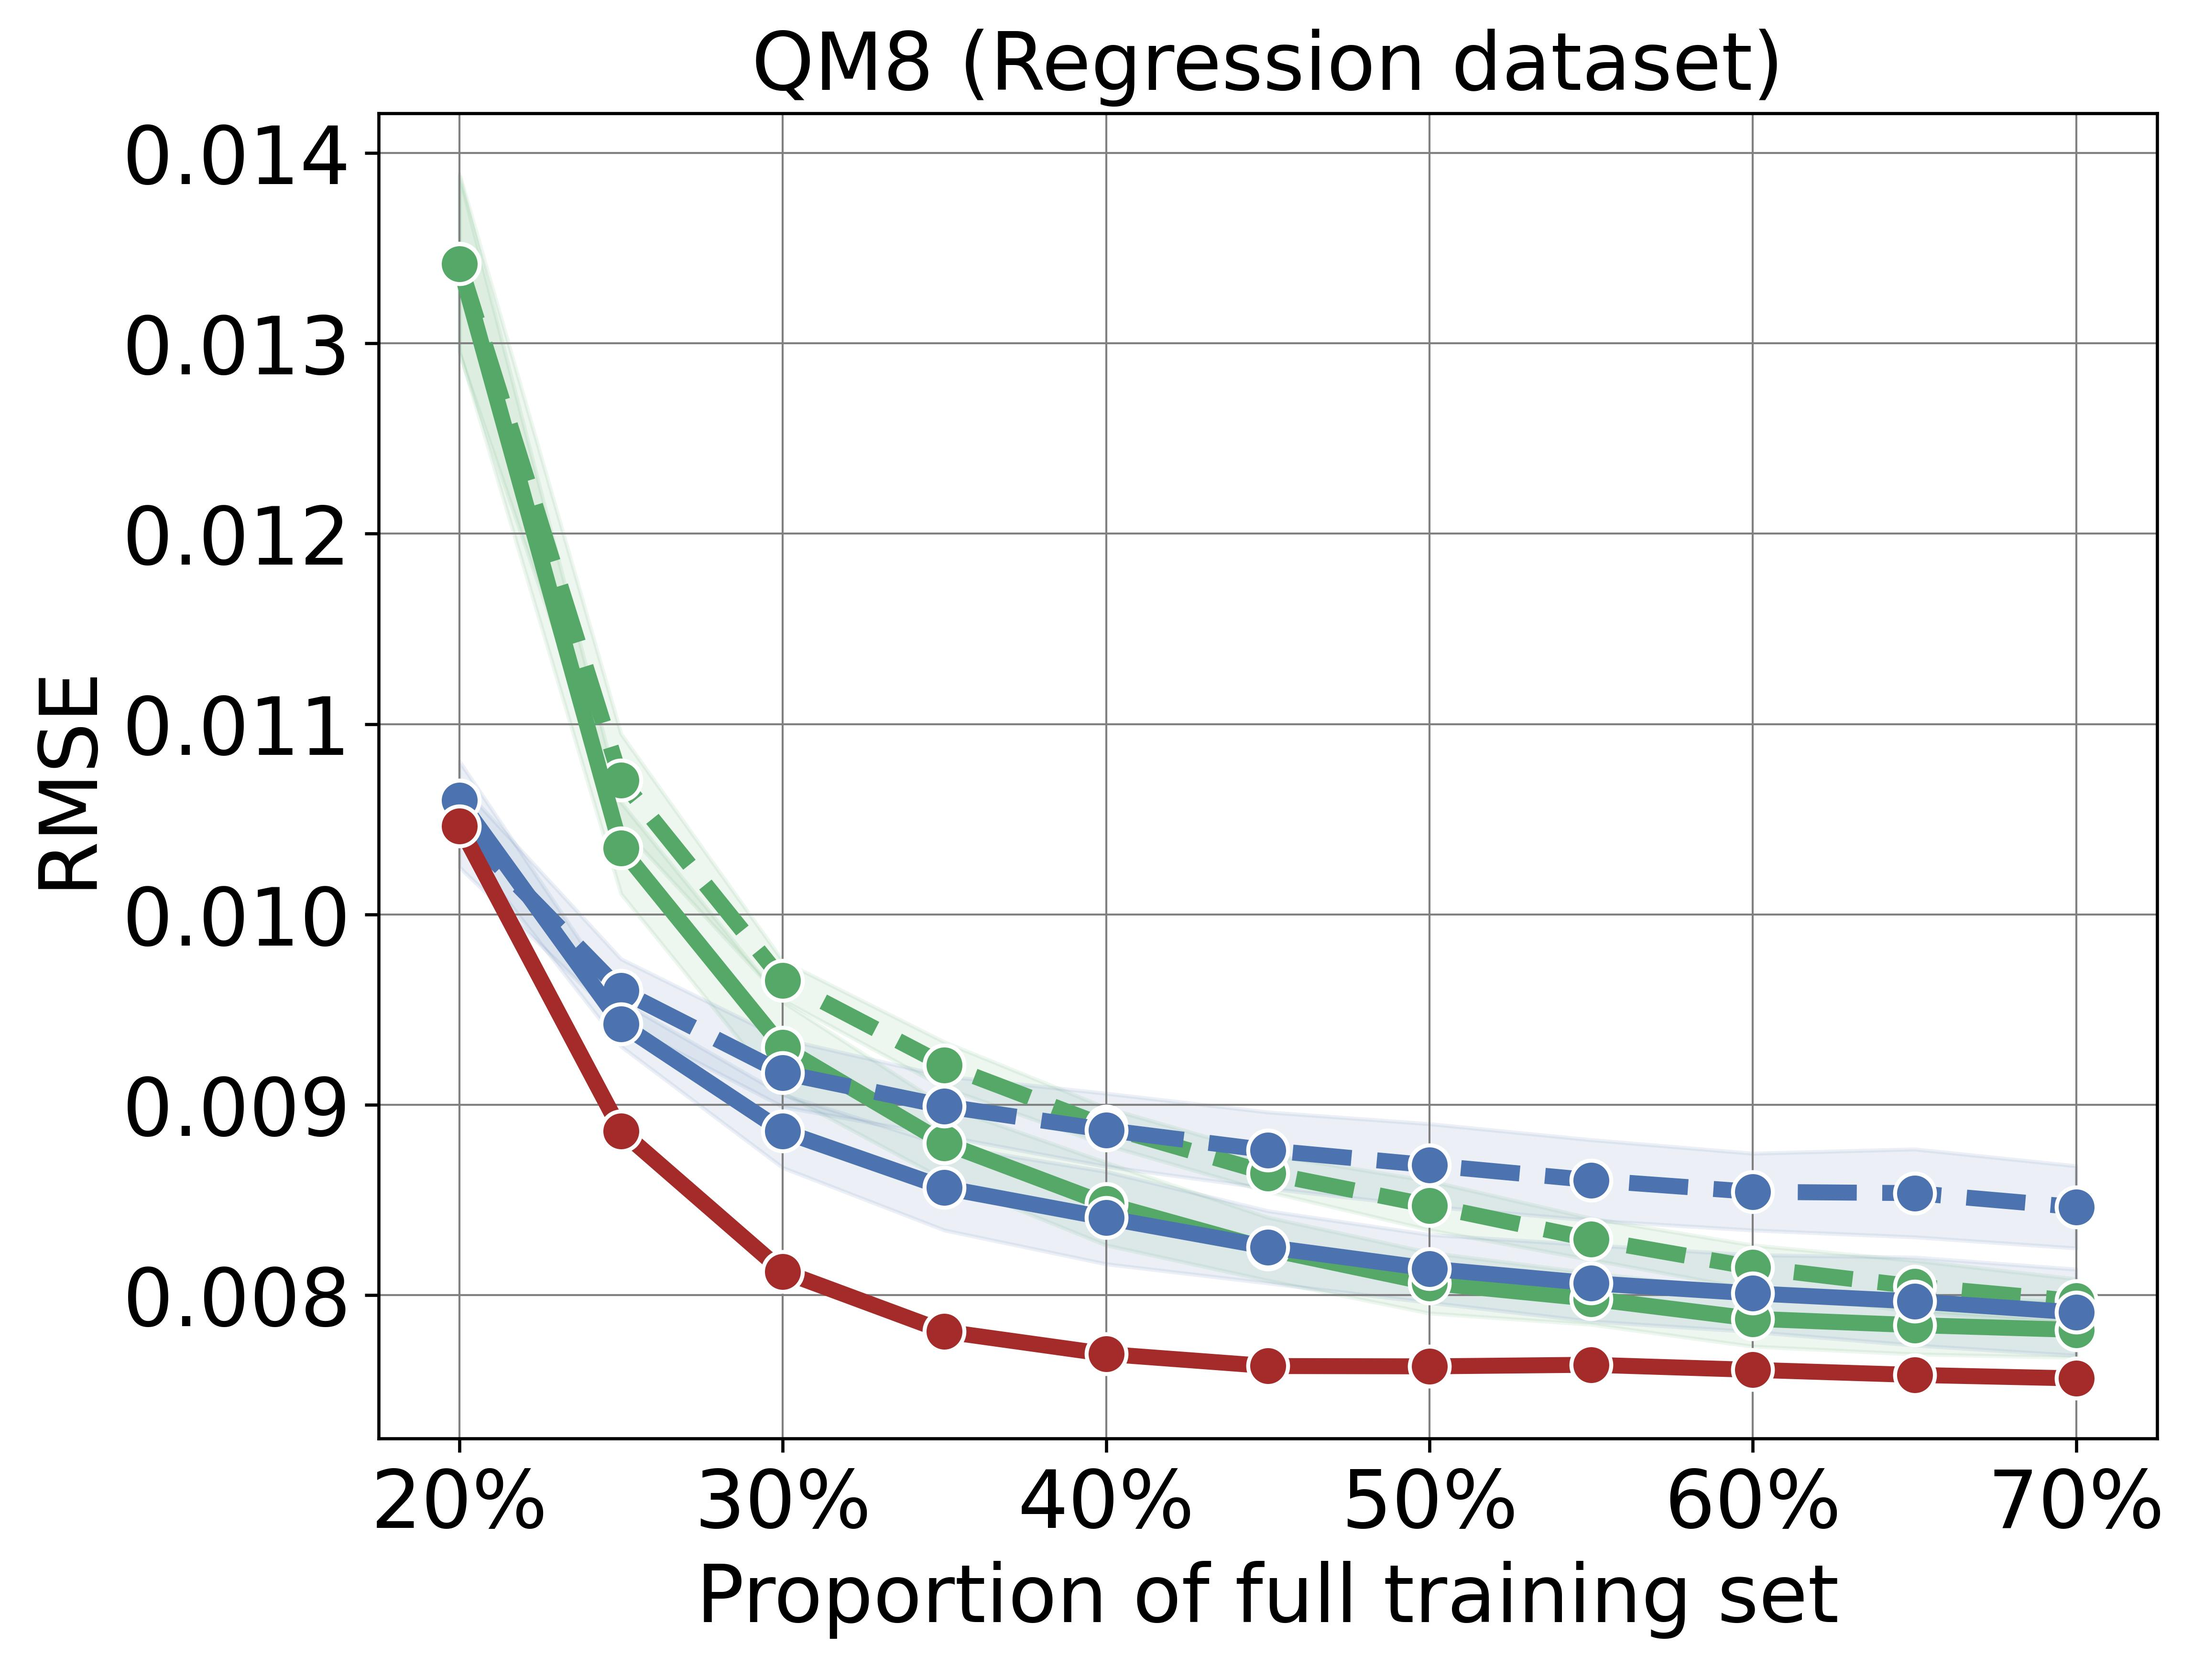
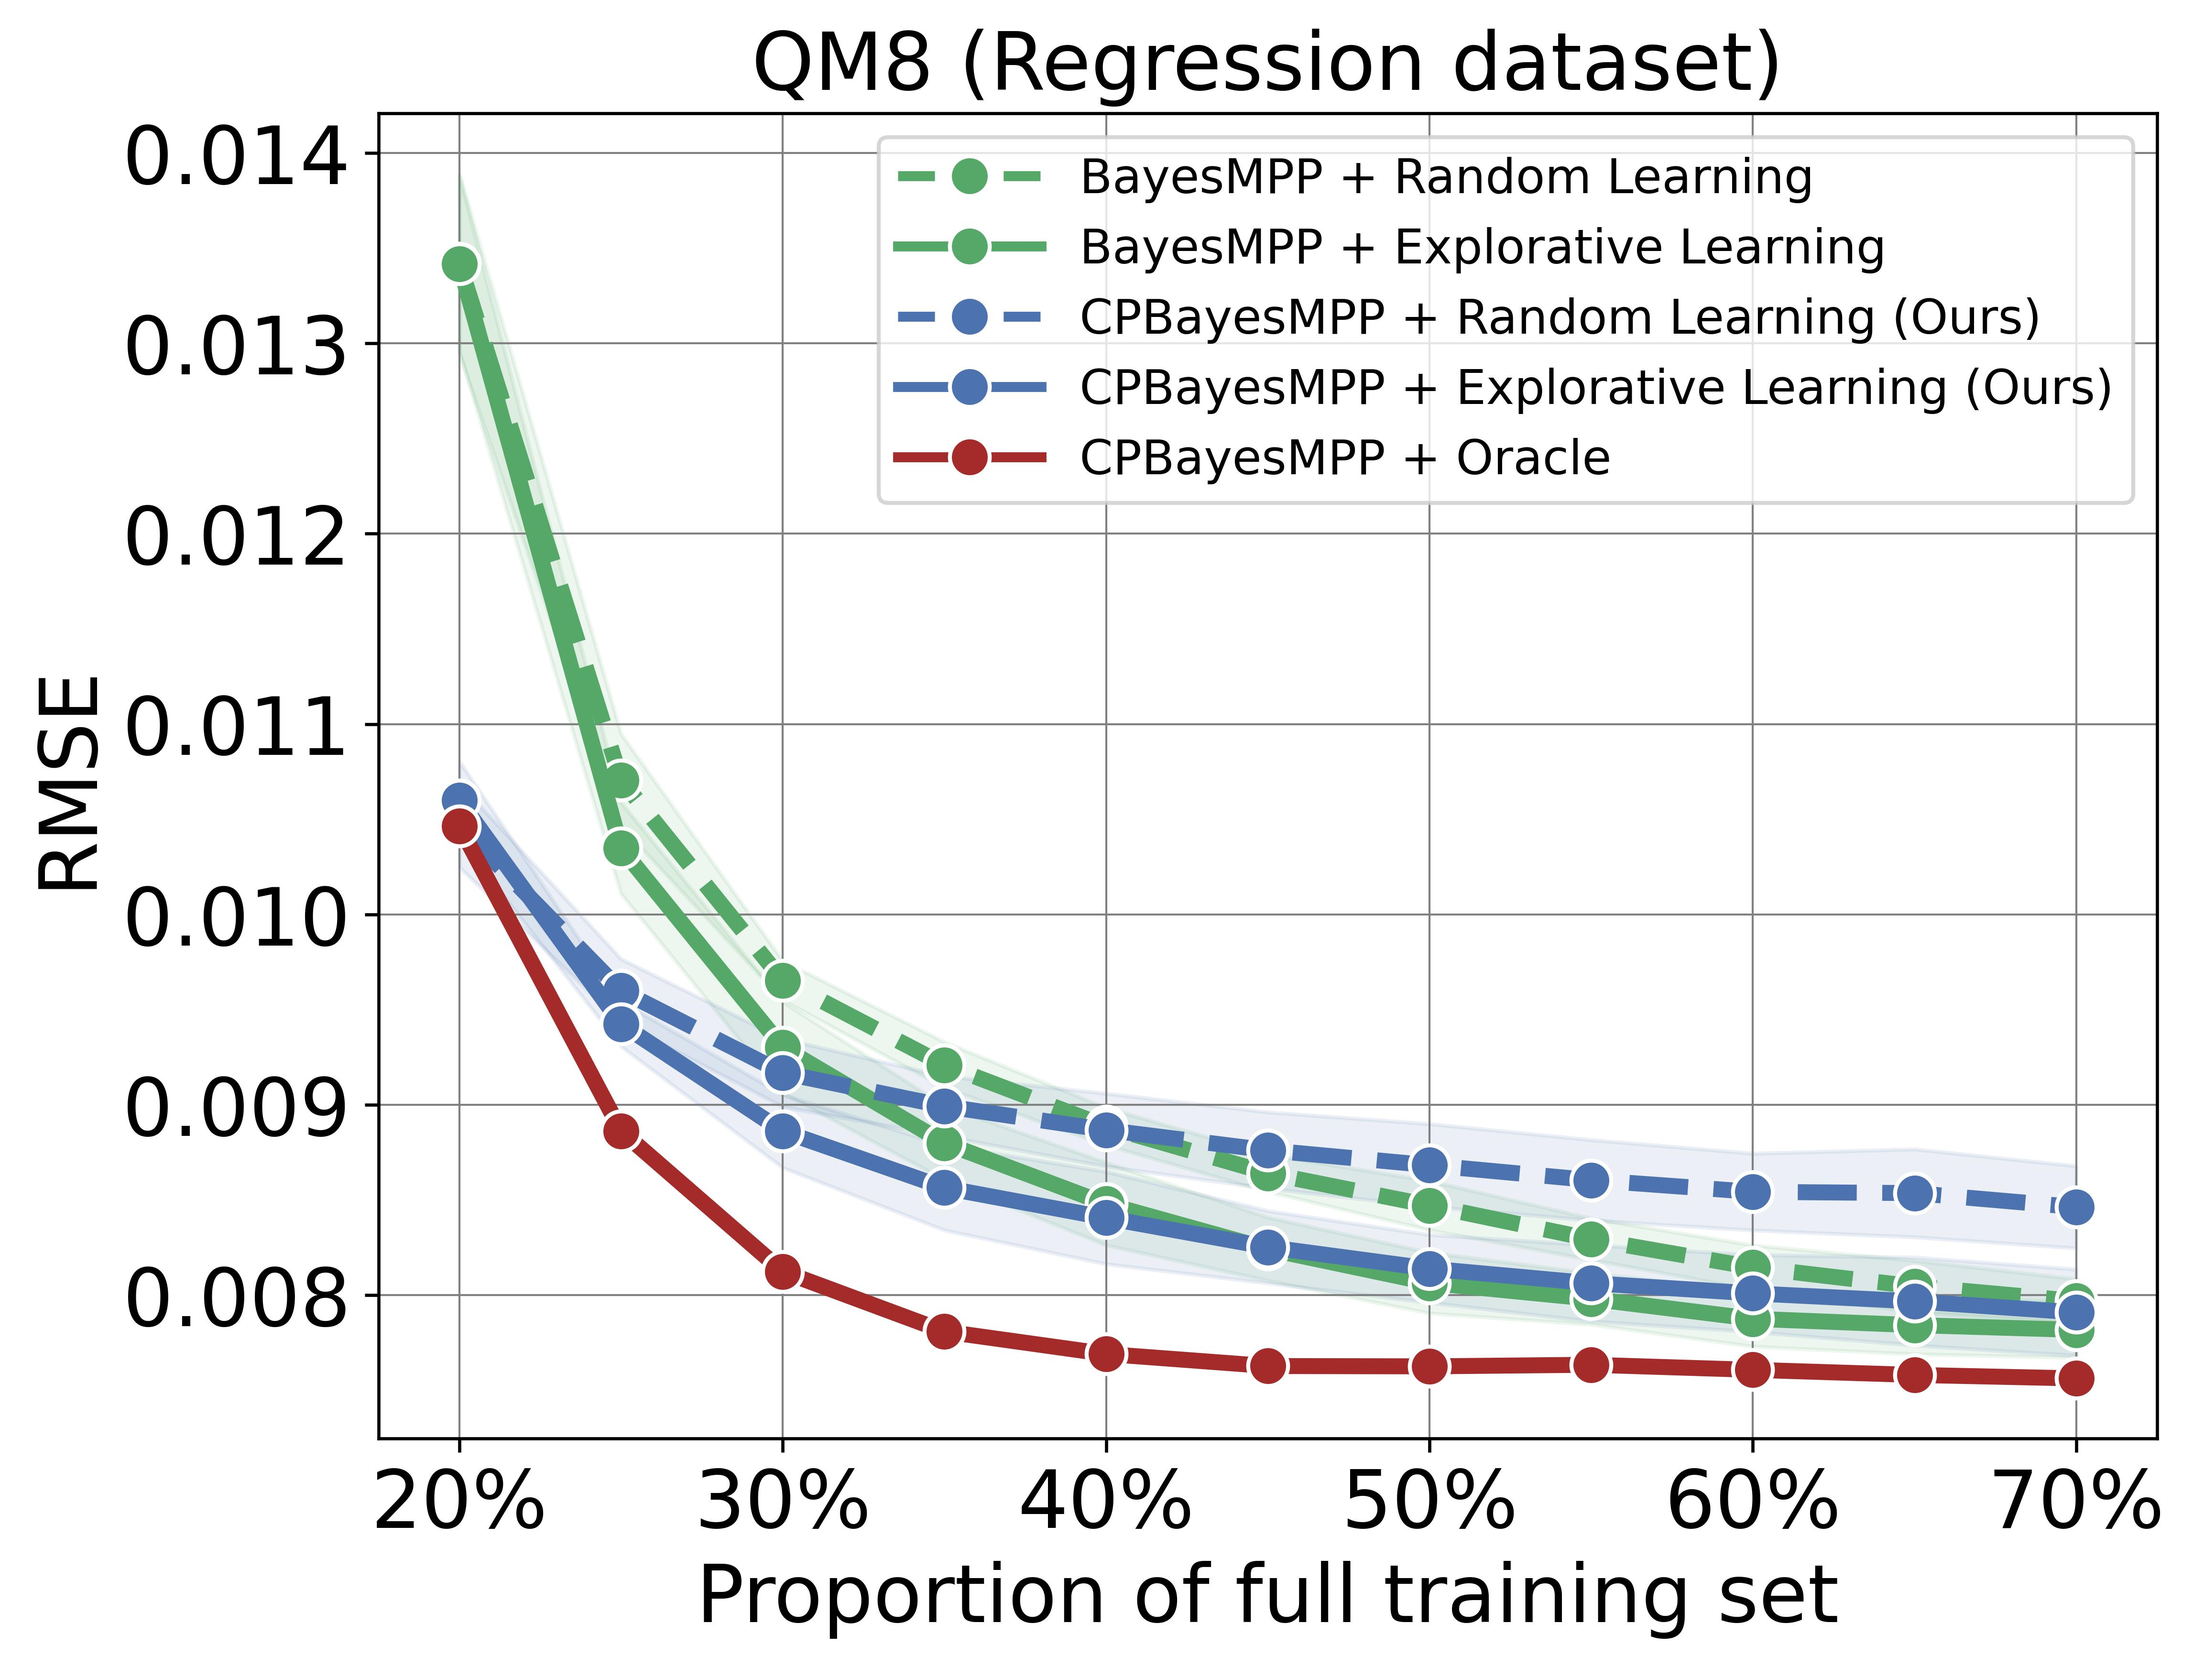
Add files via upload

Changed region(s): [[0.4053, 0.0619, 0.9664, 0.3097]]

diff --git a/4-2-visualize_active.py b/4-2-visualize_active.py
@@ -100,10 +100,10 @@ def visualize_active_learning(args: Namespace):
     plot_with_std(ax, data_ratio, *compute_mean_std(CPBayesMPP_explorative_curves), sns.color_palette("deep")[0], 'CPBayesMPP + Explorative Learning (Ours)', '-')
     plot_with_std(ax, data_ratio, *compute_mean_std(CPBayesMPP_oracle_curves), 'brown', 'CPBayesMPP + Oracle', '-', draw_std=False)
 
-    # legend = plt.legend(fontsize=15, loc='best', handlelength=3.0)
-    # legend.get_frame().set_alpha(0.8)
-    # for handle in legend.legendHandles:
-    #     handle.set_linewidth(2.5)
+    legend = plt.legend(fontsize=12, loc='best', handlelength=3.0)
+    legend.get_frame().set_alpha(0.8)
+    for handle in legend.legendHandles:
+        handle.set_linewidth(2.5)
 
     ax.set_xlabel('Proportion of full training set', fontsize=20)
     ax.set_ylabel('RMSE' if data_type == 'regression' else 'ROC-AUC (%)', fontsize=20)

diff --git a/5-2-visualize_prior.py b/5-2-visualize_prior.py
@@ -78,7 +78,7 @@ def visualize_prior_similarity(args: Namespace):
     plt.ylabel('Number of Pairs', fontsize=20)
     plt.xticks(fontsize=15 if ((args.data_name == 'hiv' or args.data_name == 'lipo') and args.prior == 'BayesMPP+Prior') else 20)
     plt.yticks(fontsize=20)
-    # plt.legend(fontsize=20)
+    plt.legend(fontsize=20)
 
     title = f'{args.print_name[args.data_name]} Uninformative Prior' if args.prior == 'BayesMPP+Prior' else f'{args.print_name[args.data_name]} Contrastive Prior'
     plt.title(title, fontsize=20)
